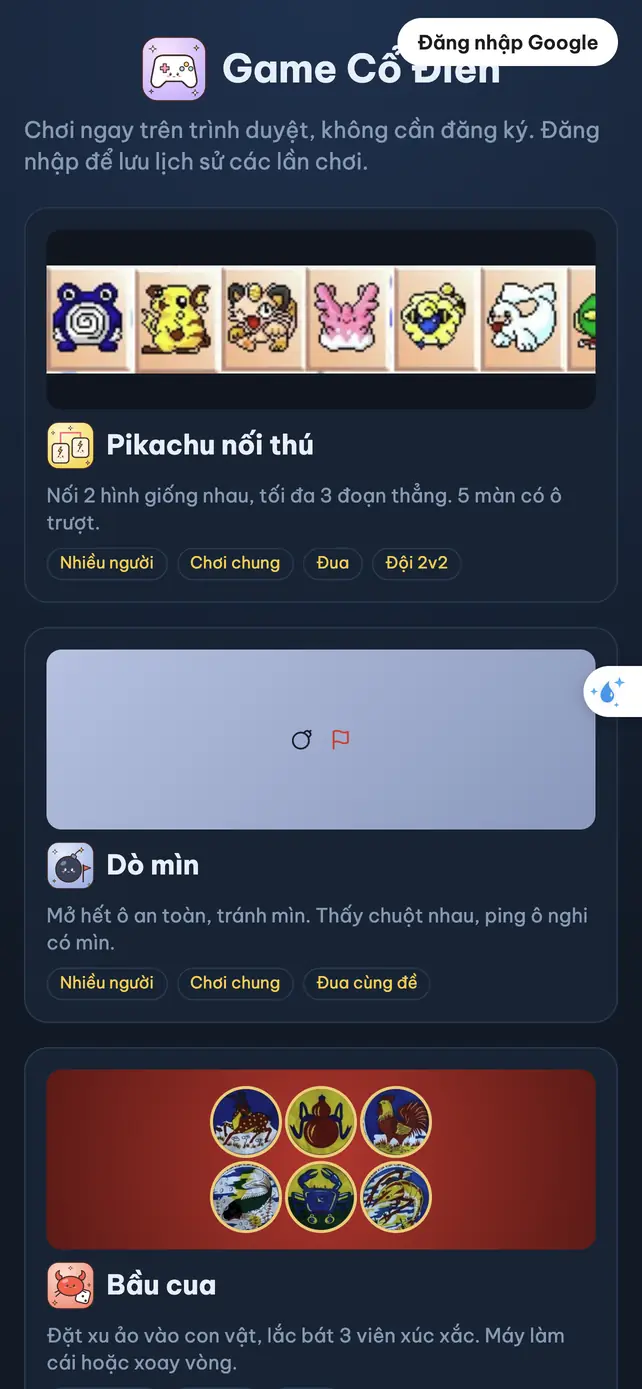
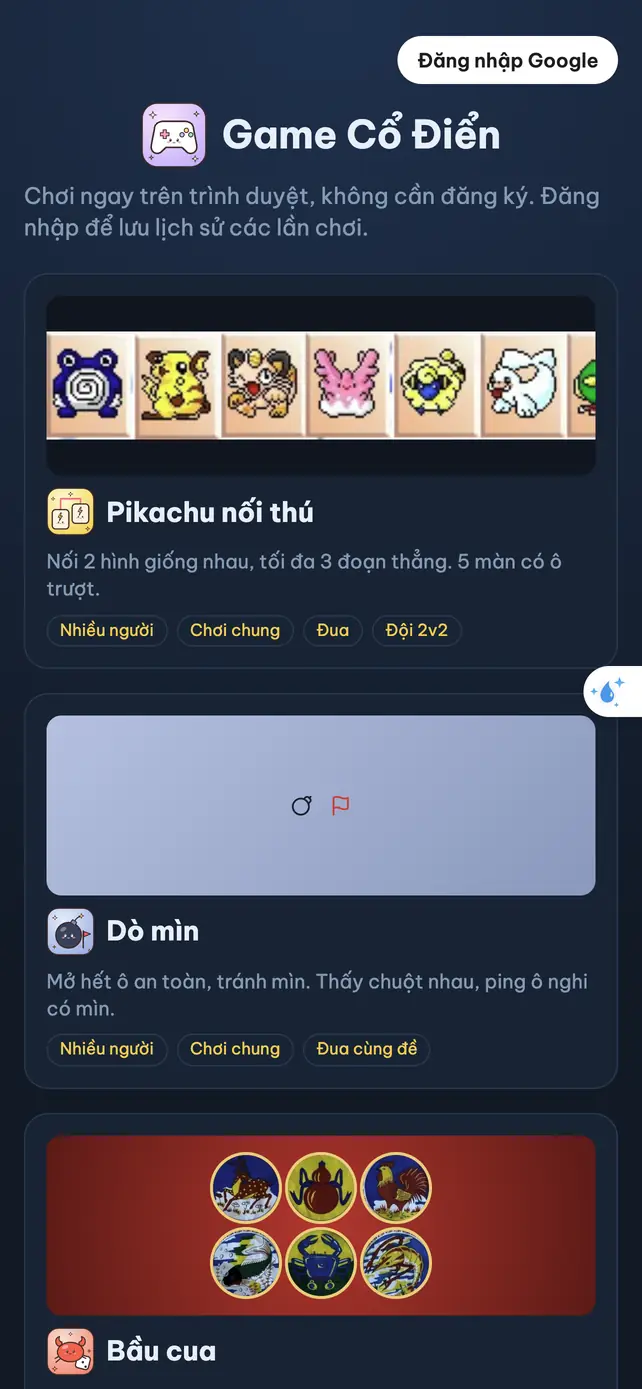
fix(mobile): login button no longer overlaps title; Bầu cua fits one screen in landscape
- home: on ≤640px the account button sits in its own row instead of absolute over the h1
- bau-cua: landscape phones (height ≤500px) put the plate left, board + chips right
- refresh the affected iPhone screenshots

diff --git a/screenshots/README.md b/screenshots/README.md
@@ -18,7 +18,7 @@ Tên file: `<profile>-<game>-<bước>[-<cỡ bàn>][-scrollN].webp` — bước
 
 ## Chỗ còn chưa ổn
 
-- Trang chủ, iPhone dọc: nút "Đăng nhập Google" đè lên tiêu đề "Game Cổ Điển" (`iphone14plus-portrait-home-scroll1`).
-- Bầu cua, iPhone ngang: bàn cao 669px > 428px, phải cuộn mới thấy hàng Cá/Cua/Tôm, chip và nút Mở bát (`iphone14plus-landscape-bau-cua-3-play-scroll1/2`).
+- ~~Trang chủ, iPhone dọc: nút "Đăng nhập Google" đè lên tiêu đề~~ — đã sửa: màn ≤640px nút nằm hàng riêng (`iphone14plus-portrait-home-scroll1`).
+- ~~Bầu cua, iPhone ngang: phải cuộn mới thấy Cá/Cua/Tôm, chip, Mở bát~~ — đã sửa: màn ngang thấp thì đĩa bên trái, bàn + phỉnh bên phải, vừa 1 màn (`iphone14plus-landscape-bau-cua-3-play`).
 - Caro 19×19 trên iPhone dọc: ô 21px (dưới mức 44px Apple khuyên), dễ bấm nhầm.
 - Nút giọt nước bên phải mọi ảnh là extension của trình duyệt, không phải của app.
